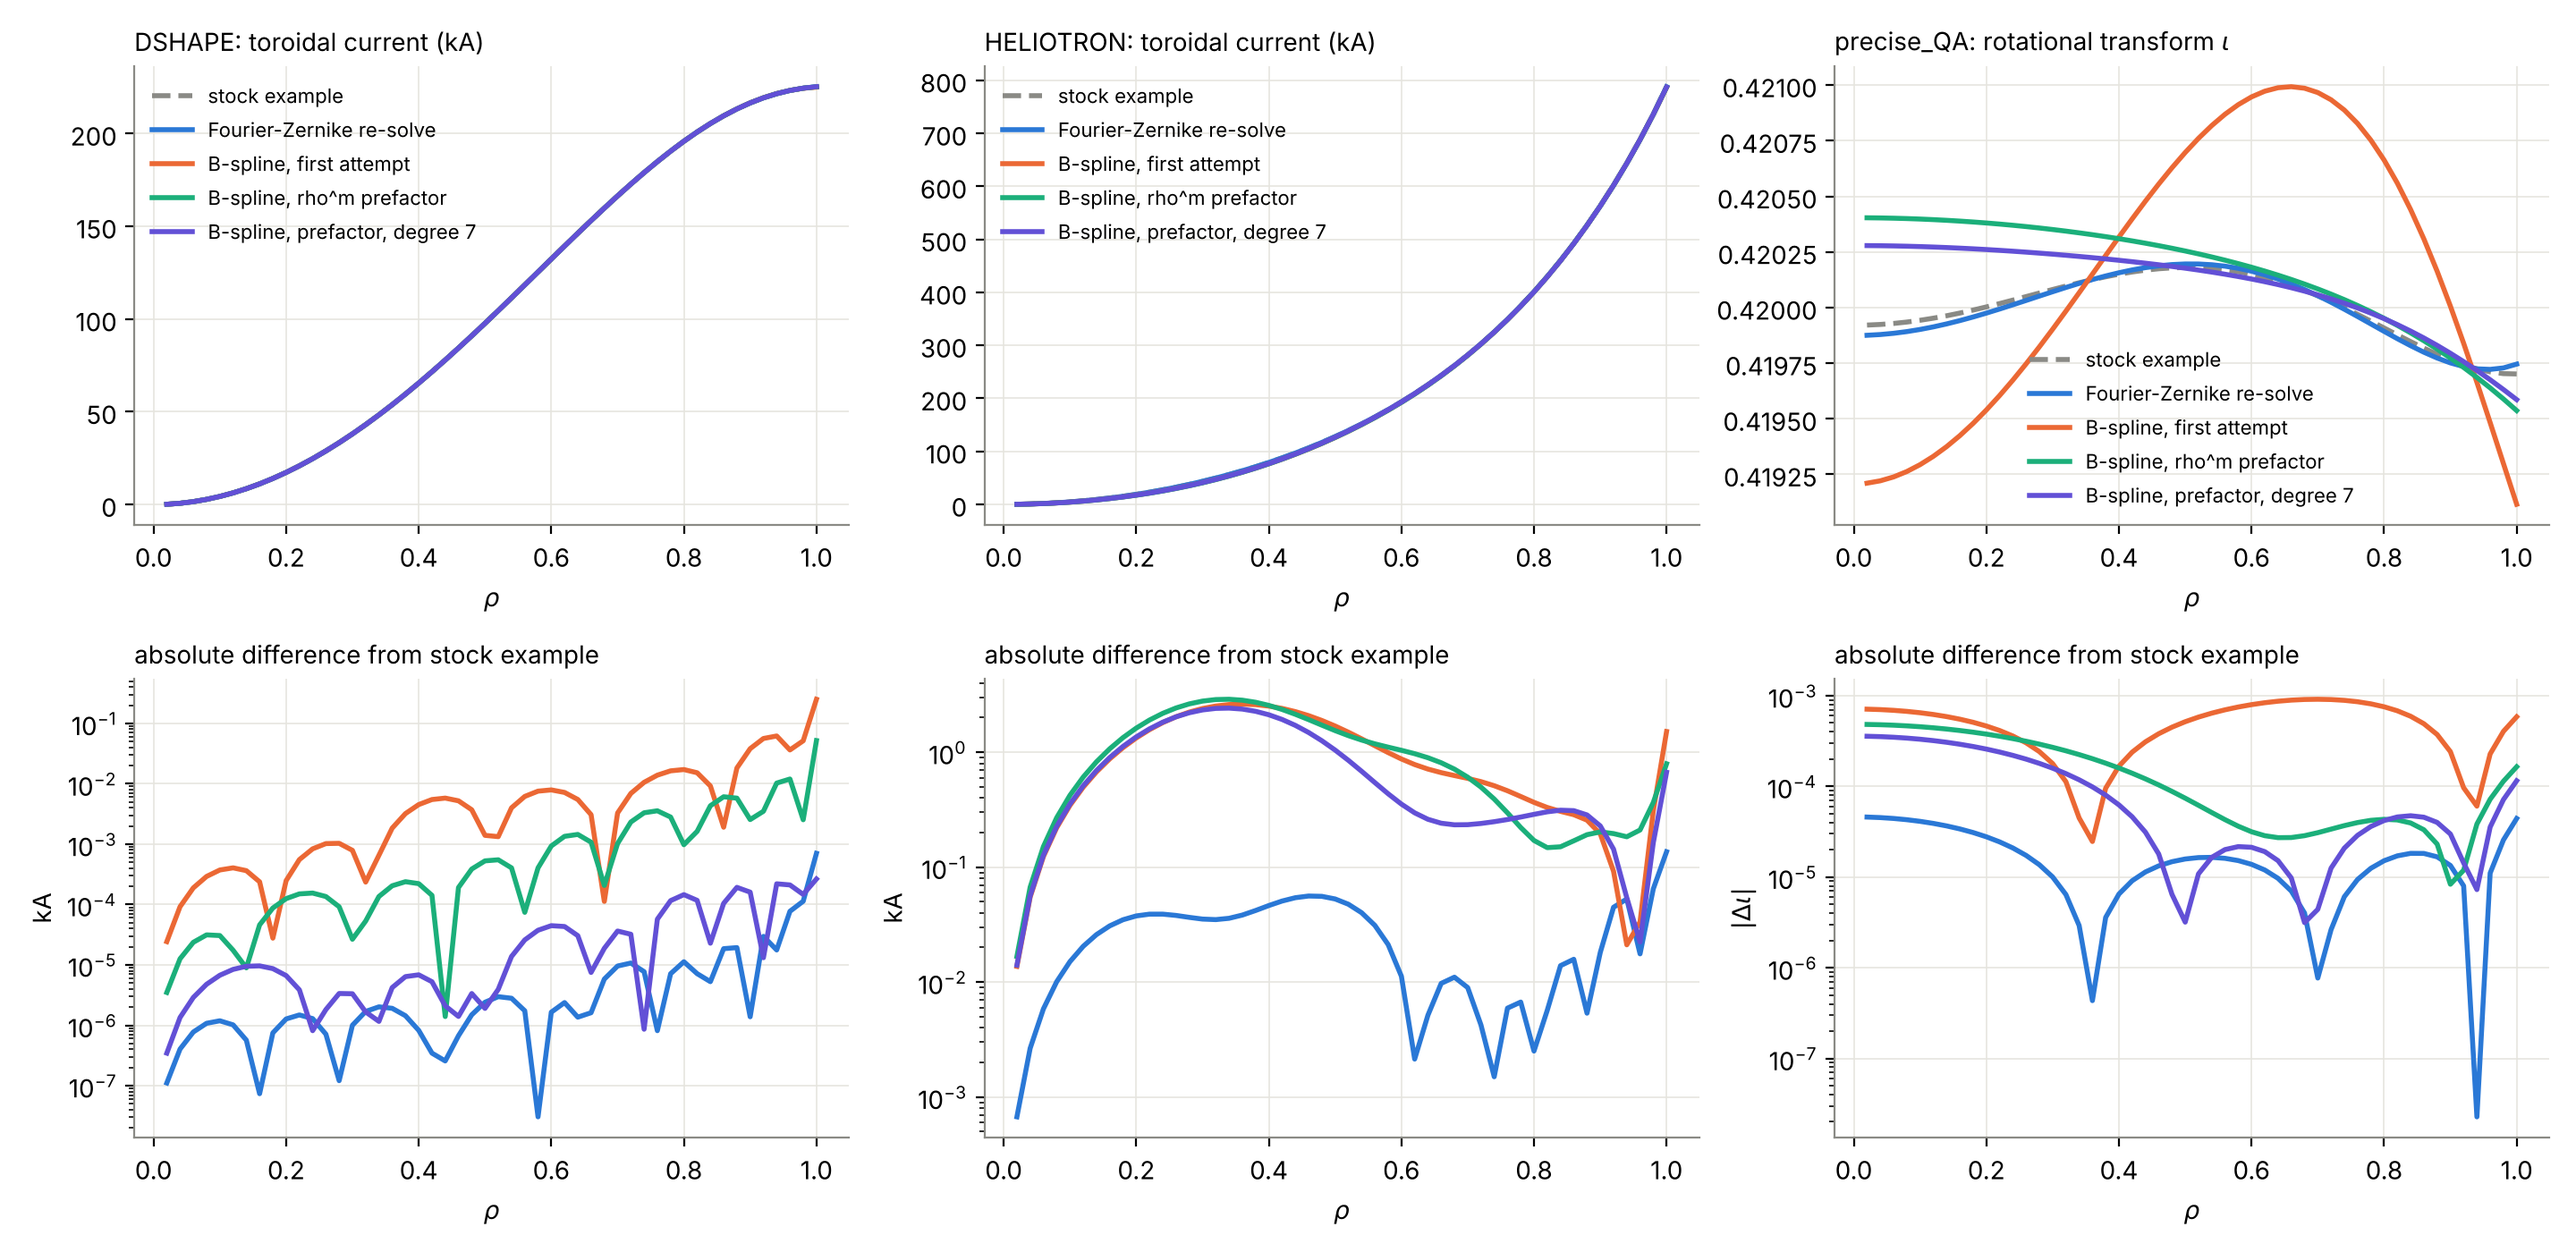
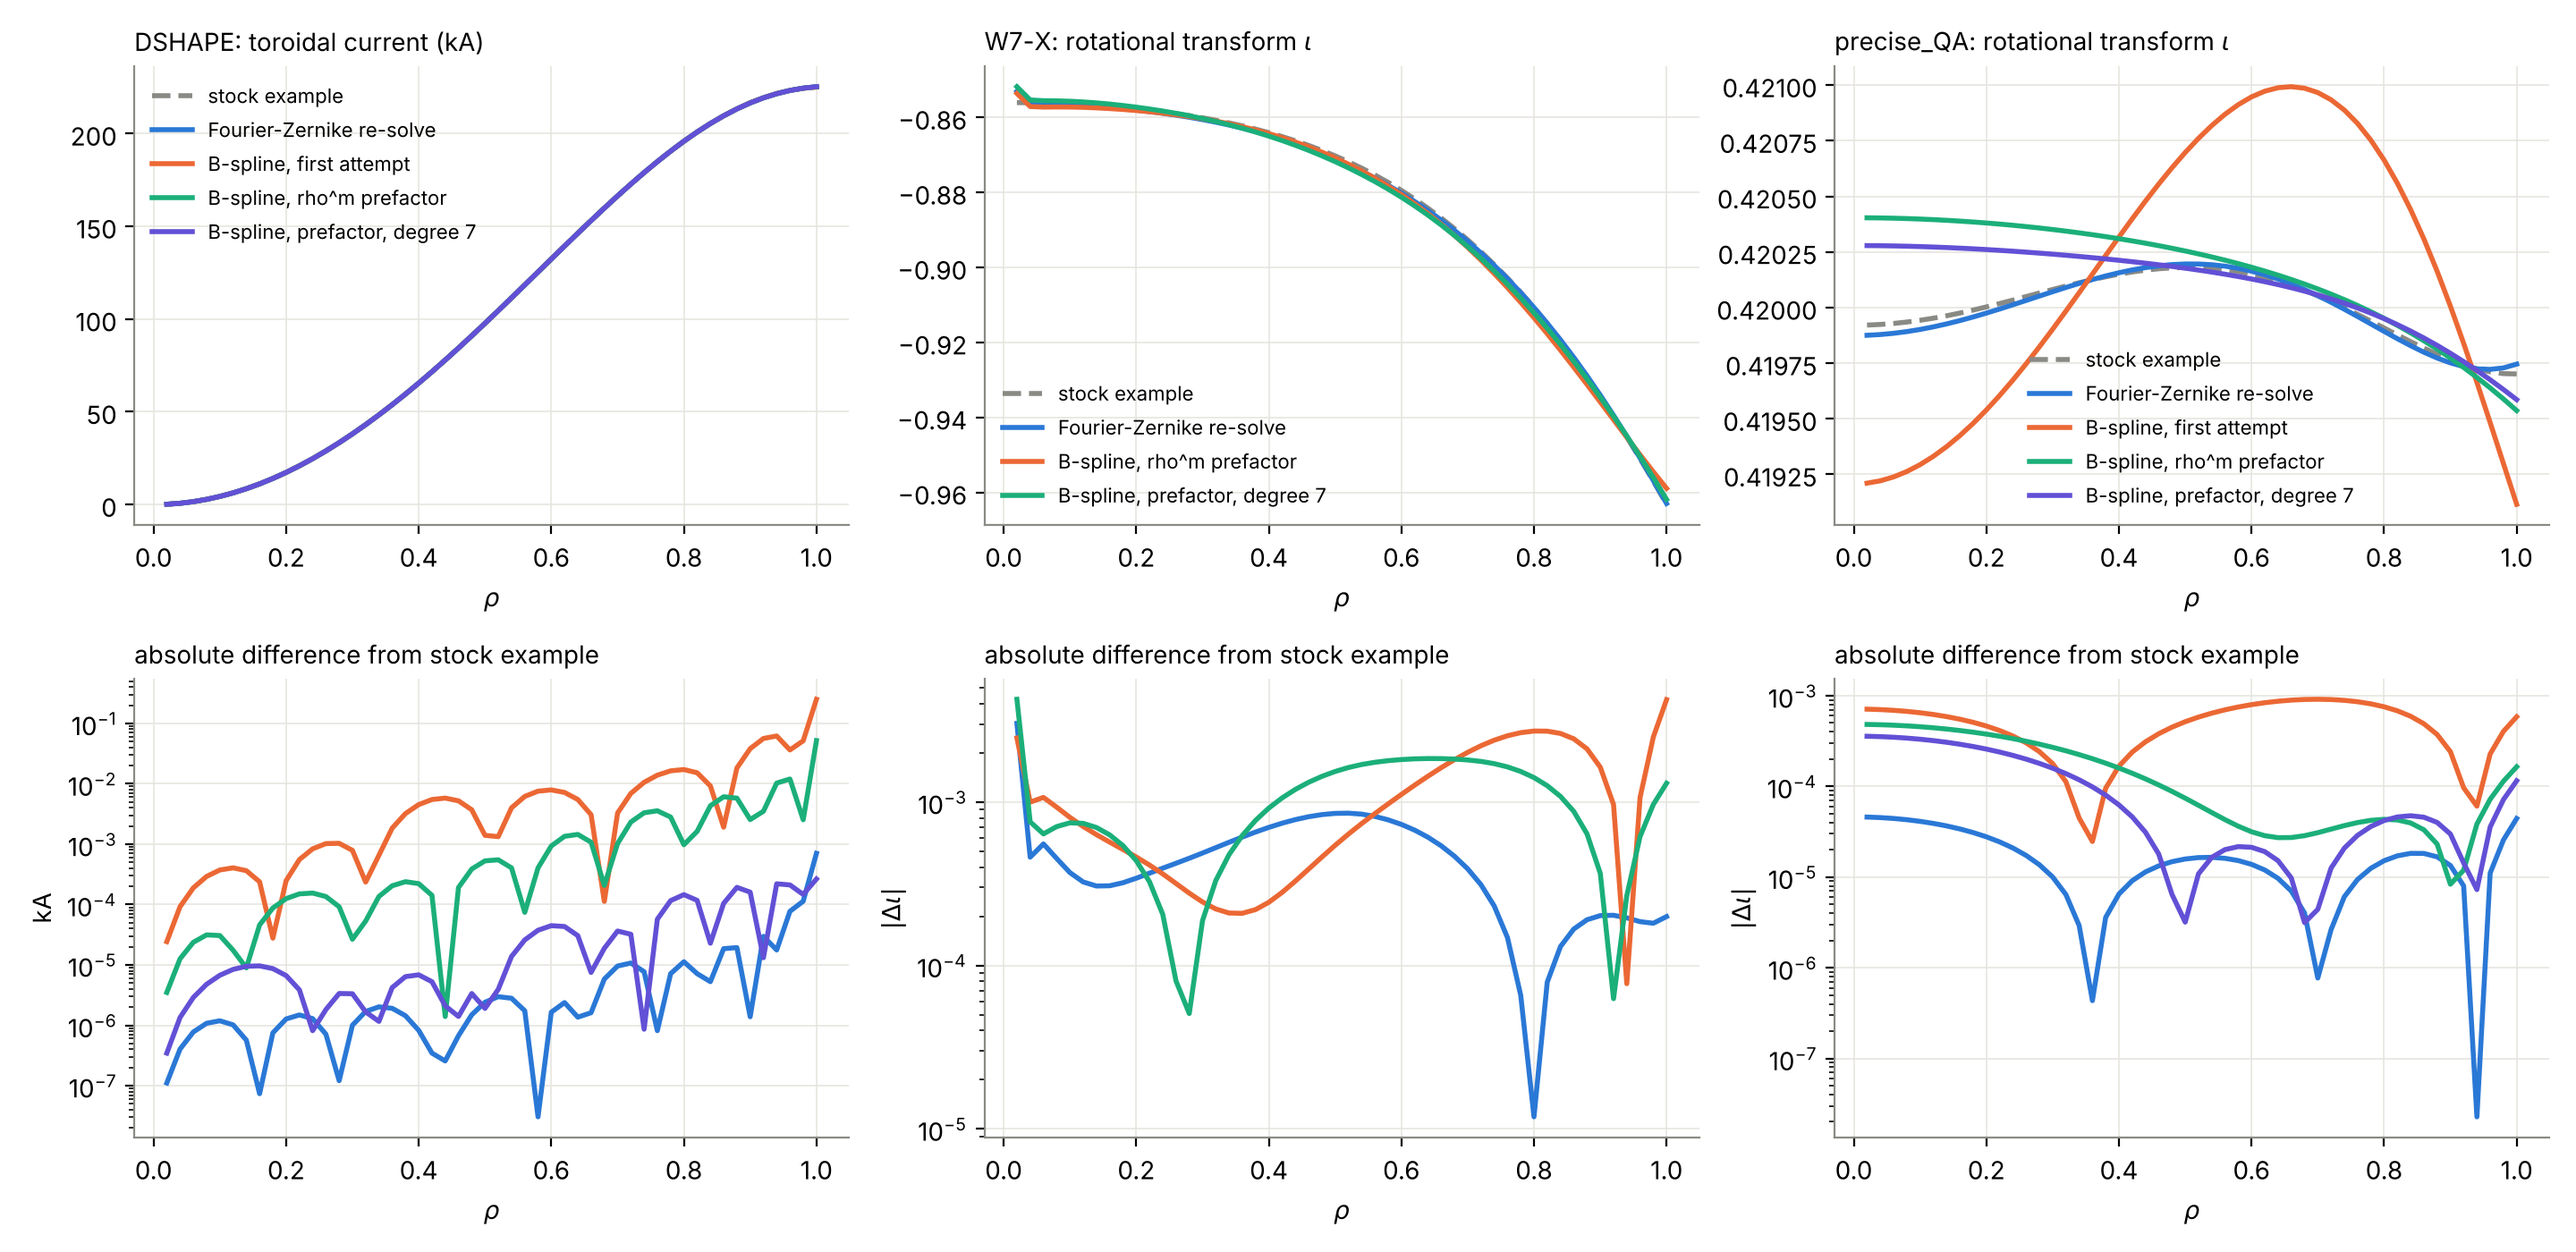
Add W7-X spline results and updated comparison figures
Claude-Session: https://claude.ai/code/session_01WPjBvDF7auQgKEmWxb1Ye9

diff --git a/bspline_comparison/plot_experiments.py b/bspline_comparison/plot_experiments.py
@@ -1,0 +1,75 @@
+"""Force error and flux surfaces for runs of experiments.py.
+
+Usage: python plot_experiments.py NAME:label,label ...
+The first label of each case is drawn as the reference for the flux surfaces.
+Writes comparison_experiments.png.
+"""
+
+import json
+import sys
+
+import matplotlib
+
+matplotlib.use("Agg")
+import matplotlib.pyplot as plt  # noqa: E402
+import numpy as np  # noqa: E402
+
+COLORS = ["#2a78d6", "#eb6834", "#1baf7a", "#6250d6"]
+NICE = {
+    "zernike": "Fourier-Zernike re-solve",
+    "bspline_base": "B-spline, first attempt",
+    "apfull": "B-spline, rho^m prefactor",
+    "apfull_nq8": "B-spline, rho^m prefactor",
+    "p7_apfull": "B-spline, prefactor, degree 7",
+    "p7_apfull_nq8": "B-spline, prefactor, degree 7",
+}
+plt.rcParams.update(
+    {
+        "font.size": 10,
+        "axes.spines.top": False,
+        "axes.spines.right": False,
+        "axes.grid": True,
+        "grid.color": "#e6e5df",
+        "grid.linewidth": 0.6,
+        "axes.edgecolor": "#8a8a85",
+        "lines.linewidth": 2,
+    }
+)
+
+cases = [a.split(":") for a in sys.argv[1:]]
+fig, axes = plt.subplots(2, len(cases), figsize=(4.8 * len(cases), 8.4), squeeze=False)
+for j, (name, labels) in enumerate(cases):
+    labels = labels.split(",")
+    rows = {r["label"]: r for r in json.load(open(f"experiments_{name}.json"))}
+    ref = np.load(f"exp_{name}_reference.npz")
+    ax = axes[0, j]
+    ax.semilogy(ref["rho"], ref["F_rho"], color="#8a8a85", ls="--", label="stock example")
+    for c, lab in zip(COLORS, labels):
+        d = np.load(f"exp_{name}_{lab}.npz")
+        ax.semilogy(
+            d["rho"], d["F_rho"], color=c,
+            label=f"{NICE.get(lab, lab)} ({rows[lab]['modes']} R modes)",
+        )
+    ax.set_title(f"{name.split('@')[0]}: normalized force error", loc="left")
+    ax.set_xlabel(r"$\rho$")
+    ax.set_ylabel(r"$\langle|F|\rangle_{fsa}\ /\ \langle|\nabla B^2/2\mu_0|\rangle_{vol}$")
+    ax.legend(frameon=False, fontsize=7.5, loc="best")
+
+    # flux surfaces at zeta=0 and fixed straight field line angle: first vs last label
+    ax = axes[1, j]
+    for lab, c, lw, ls in [(labels[0], COLORS[0], 1.6, "-"), (labels[-1], "#eb6834", 0.9, "--")]:
+        d = np.load(f"exp_{name}_{lab}.npz")
+        nz = d["R"].size // 480
+        R = d["R"].reshape(nz, 10, 48)[0]
+        Z = d["Z"].reshape(nz, 10, 48)[0]
+        for i in range(10):
+            ax.plot(np.append(R[i], R[i, 0]), np.append(Z[i], Z[i, 0]), color=c, lw=lw,
+                    ls=ls, label=NICE.get(lab, lab) if i == 0 else None)
+    ax.set_aspect("equal")
+    ax.set_title(r"flux surfaces at $\zeta=0$", loc="left")
+    ax.set_xlabel("R (m)")
+    ax.set_ylabel("Z (m)")
+    ax.legend(frameon=False, fontsize=7.5, loc="upper center",
+              bbox_to_anchor=(0.5, -0.16), ncol=1)
+fig.tight_layout()
+fig.savefig("comparison_experiments.png", dpi=200)

diff --git a/bspline_comparison/plot_profiles.py b/bspline_comparison/plot_profiles.py
@@ -52,7 +52,7 @@ for j, (name, labels) in enumerate(cases):
         nice = NICE.get(lab, "B-spline, " + lab.replace("_", " "))
         top.plot(rho, d[free] * unit, color=c, label=nice)
         bot.semilogy(rho, np.abs(d[free] - ref[free]) * unit + 1e-300, color=c, label=nice)
-    top.set_title(f"{name}: {ylabel}", loc="left", fontsize=10)
+    top.set_title(f"{name.split(chr(64))[0]}: {ylabel}", loc="left", fontsize=10)
     top.set_xlabel(r"$\rho$")
     bot.set_title("absolute difference from stock example", loc="left", fontsize=10)
     bot.set_xlabel(r"$\rho$")
